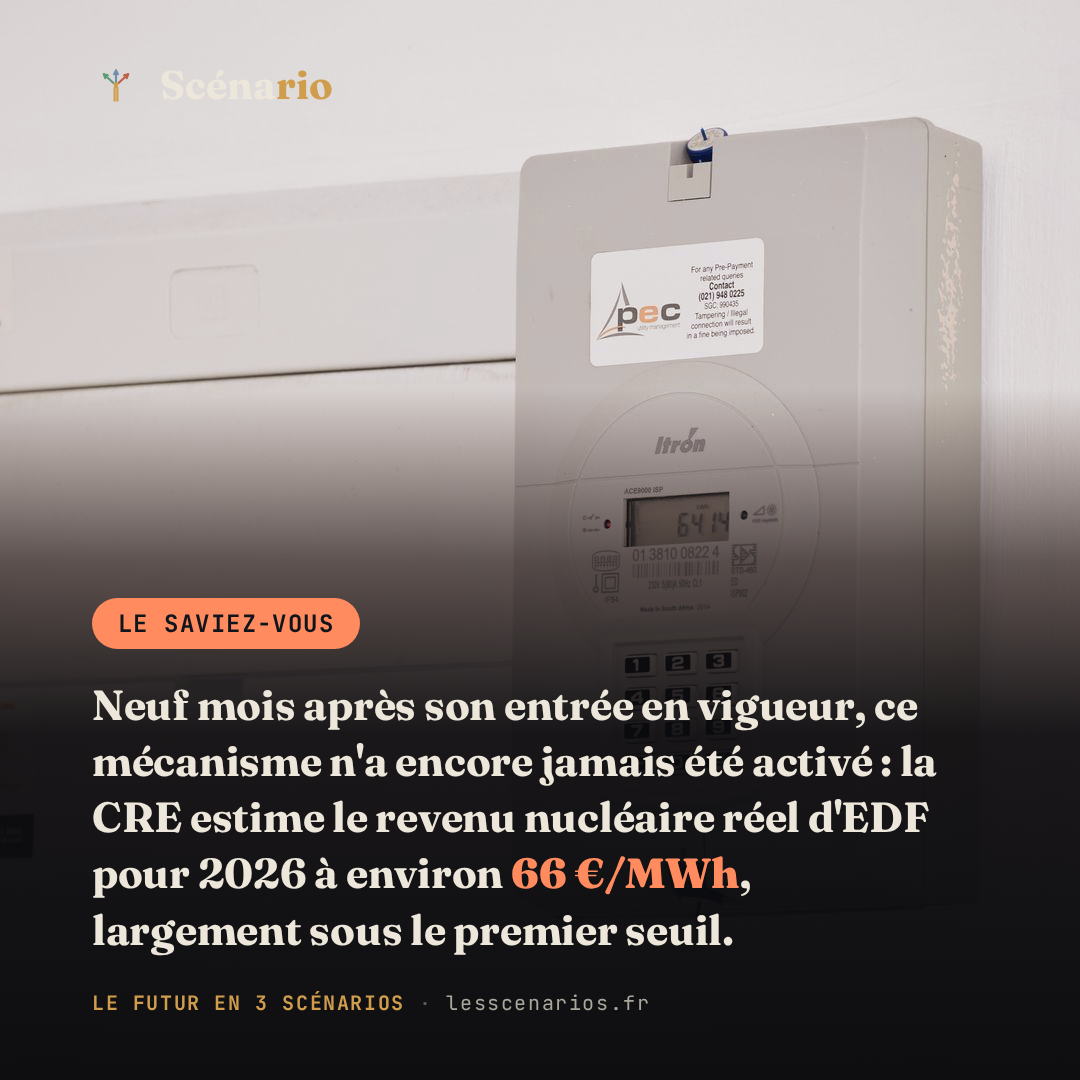
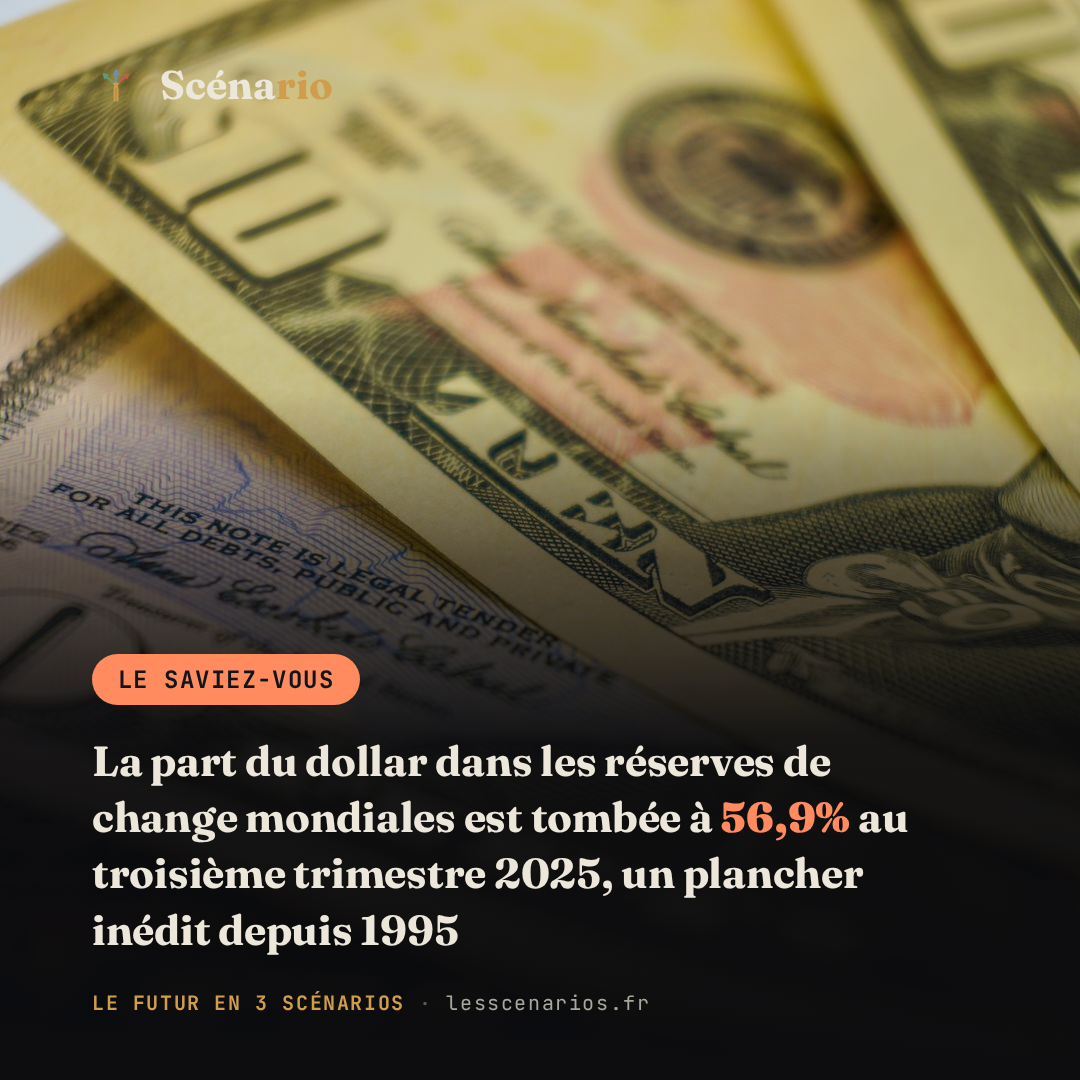
[pub] correction du post 2026-09-17 (message recalibré)

diff --git a/docs/pub-messages.md b/docs/pub-messages.md
@@ -846,8 +846,8 @@ préférée pour son registre déjà simplifié.*
 
 ### chiffre-2026-09-17
 - eyebrow: LE SAVIEZ-VOUS
-- stat: 66 €/MWh
-- message: Neuf mois après son entrée en vigueur, ce mécanisme n'a encore jamais été activé : la CRE estime le revenu nucléaire réel d'EDF pour 2026 à environ 66 €/MWh, largement sous le premier seuil.
+- stat: 56,9%
+- message: La part du dollar dans les réserves de change mondiales est tombée à 56,9% au troisième trimestre 2025, un plancher inédit depuis 1995
 - attribution: — lesscenarios.fr, 16 septembre 2026
 - cta: 👉 Abonne-toi, un chiffre qui marque chaque jour
 - source: https://lesscenarios.fr/archives/2026-09-16.html
